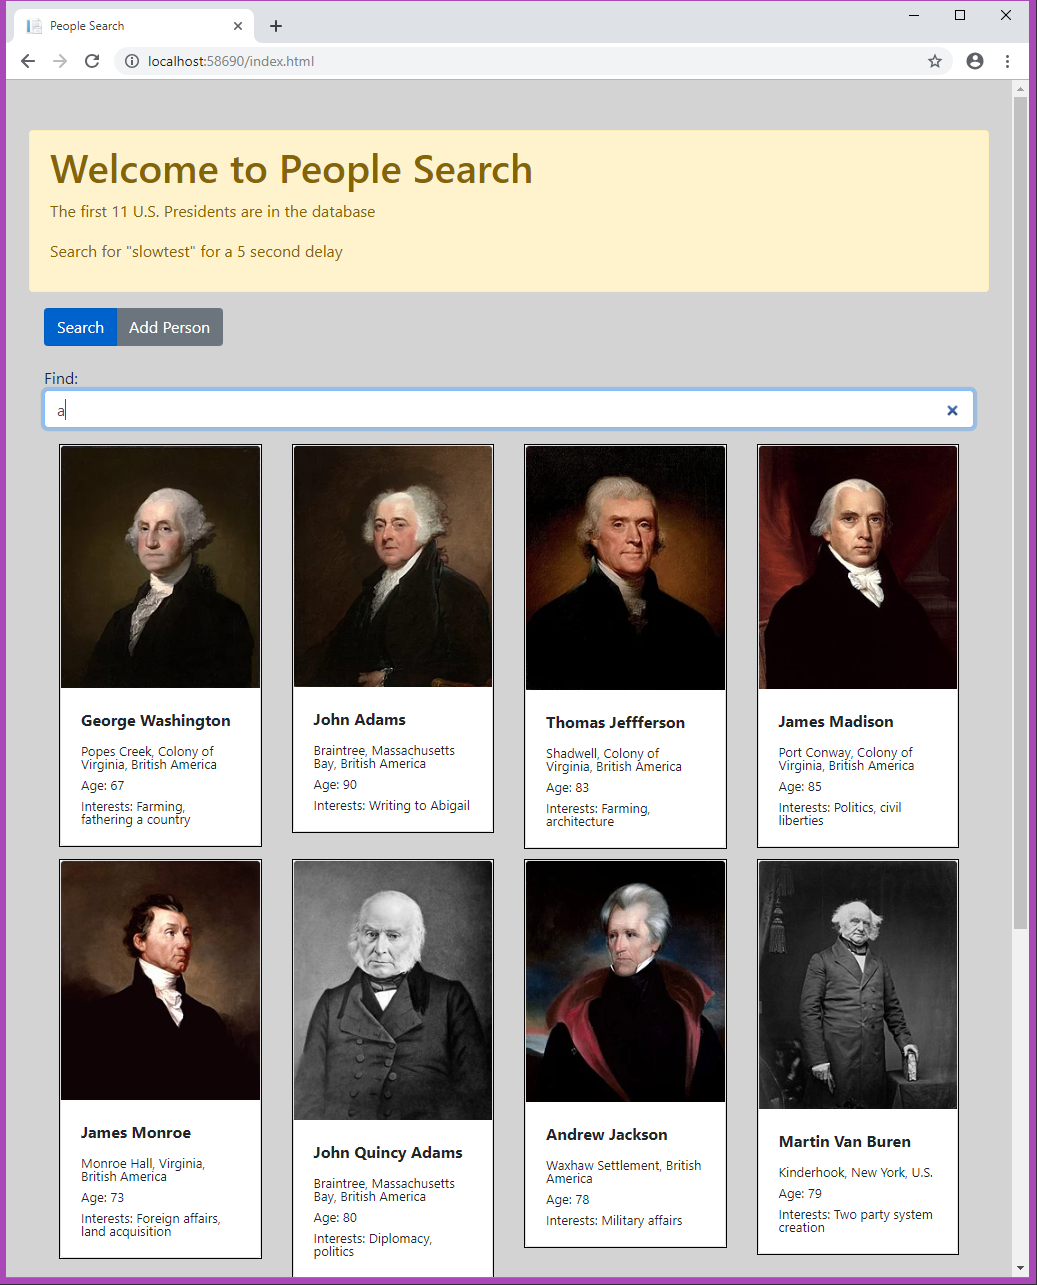
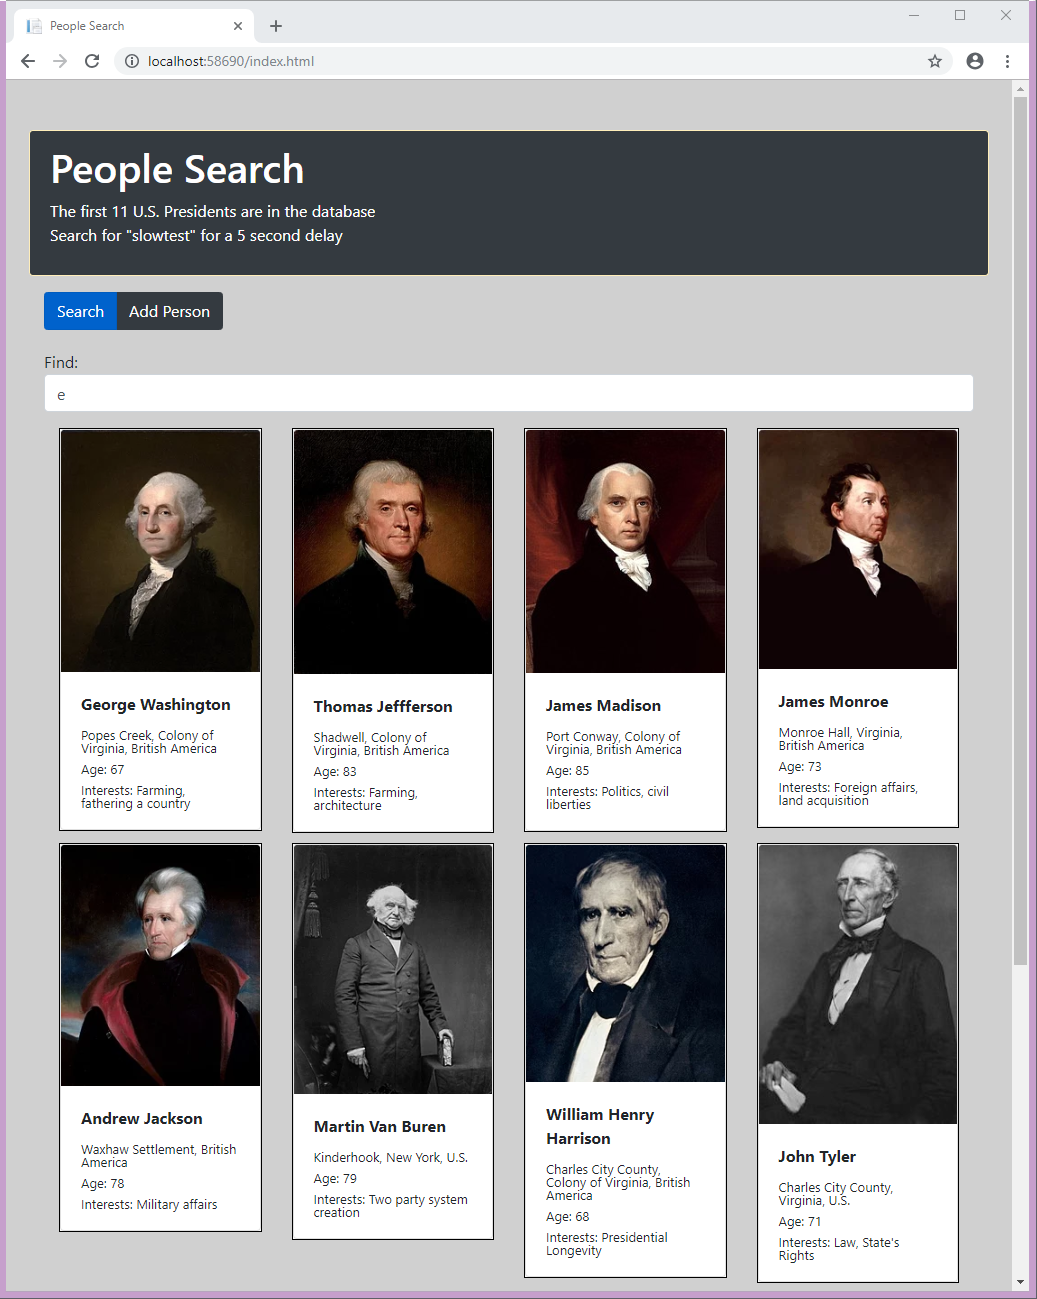
New color combination

diff --git a/FullStackDemo/Index.html b/FullStackDemo/Index.html
@@ -10,10 +10,10 @@
     
     <div class="container">
         <div class="row">
-            <div class="col alert alert-warning">
-                <h1>Welcome to People Search</h1>
-                <p>The first 11 U.S. Presidents are in the database</p>
-                <p>Search for "slowtest" for a 5 second delay</p>
+            <div class="col alert alert-warning bg-dark text-white">
+                <h1>People Search</h1>
+                <p>The first 11 U.S. Presidents are in the database<br/>
+                Search for "slowtest" for a 5 second delay</p>
             </div>
         </div>
         <div class="row">

diff --git a/FullStackDemo/Scripts/JS/App.js b/FullStackDemo/Scripts/JS/App.js
@@ -64,9 +64,9 @@ var __assign = (this && this.__assign) || function () {
     }
     function ModeControl(props) {
         var searchClasses = "btn btn-primary active";
-        var addClasses = "btn btn-secondary";
+        var addClasses = "btn btn-dark";
         if (!props.showingSearch) {
-            searchClasses = "btn btn-secondary";
+            searchClasses = "btn btn-dark";
             addClasses = "btn btn-primary active";
         }
         return (React.createElement("div", { className: 'appModeSwitcher' },

diff --git a/FullStackDemo/Scripts/Typescript/App.tsx b/FullStackDemo/Scripts/Typescript/App.tsx
@@ -64,9 +64,9 @@ function App() {
 
 function ModeControl(props) {
     let searchClasses: string = "btn btn-primary active";
-    let addClasses: string = "btn btn-secondary";
+    let addClasses: string = "btn btn-dark";
     if (!props.showingSearch) {
-        searchClasses = "btn btn-secondary";
+        searchClasses = "btn btn-dark";
         addClasses = "btn btn-primary active";
     }
 

diff --git a/FullStackDemo/Site.css b/FullStackDemo/Site.css
@@ -1,7 +1,7 @@
 body {
     padding-top: 50px;
     padding-bottom: 20px;
-    background-color: lightgray;
+    background-color: #d0d0d0;
 }
 
 /* Set padding to keep content from hitting the edges */
@@ -23,7 +23,8 @@
 }
 
 .appModeSwitcher {
-    padding-bottom: 20px;
+    margin-bottom: 20px;
+    vertical-align:middle;
 }
 
 .personCard {
